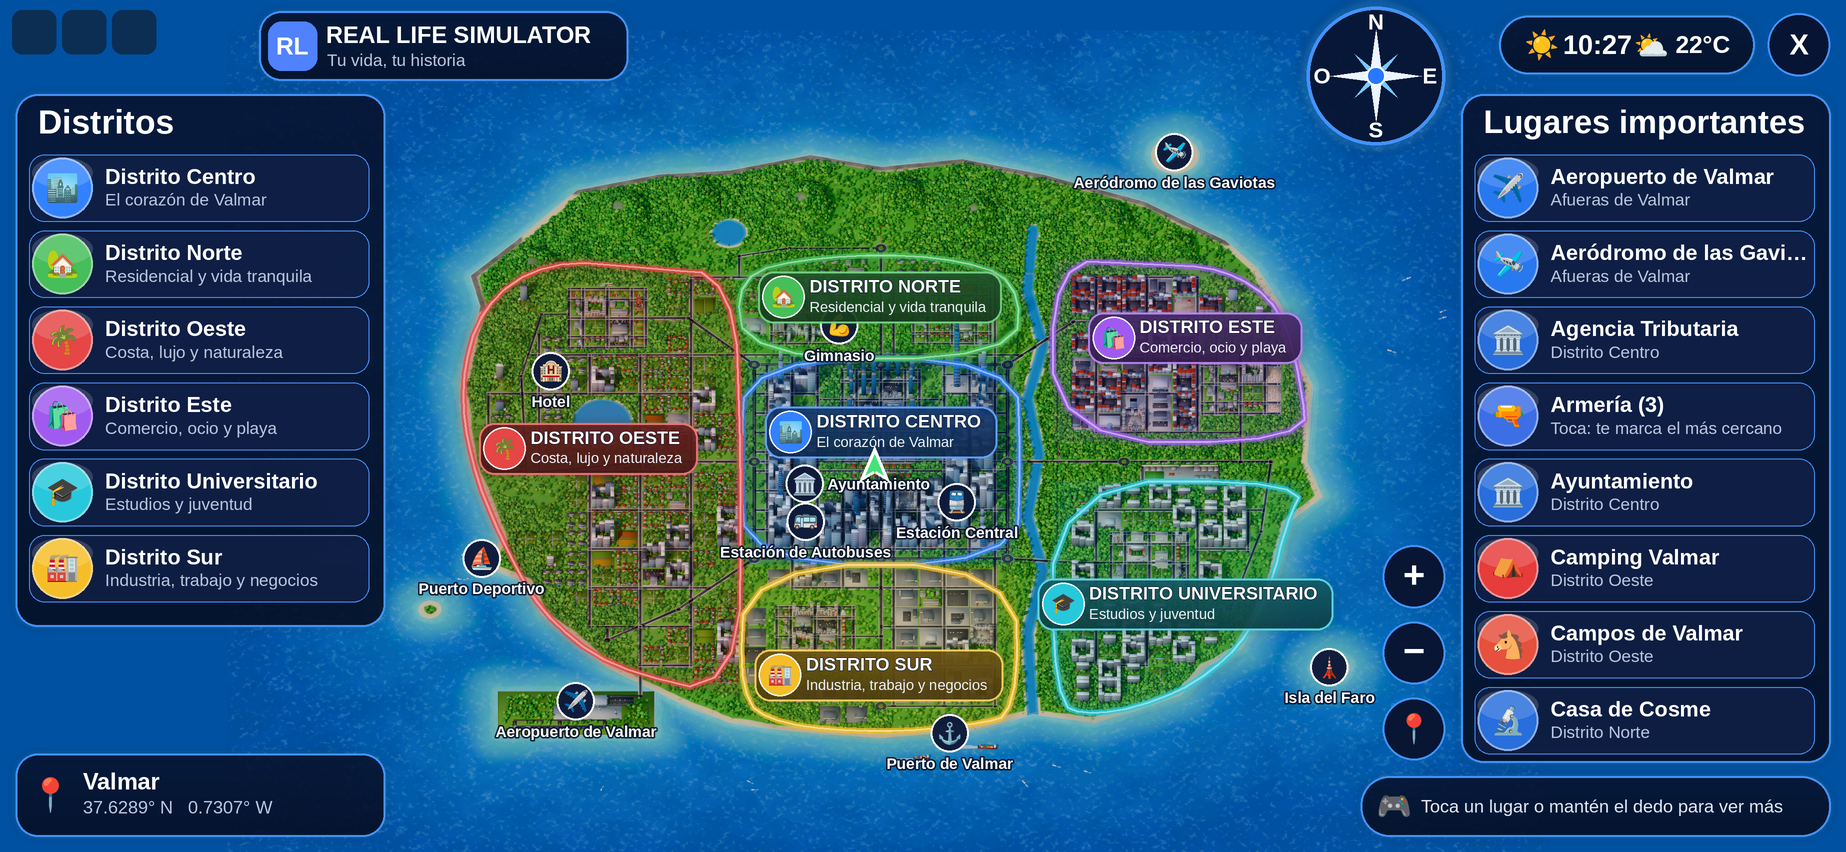
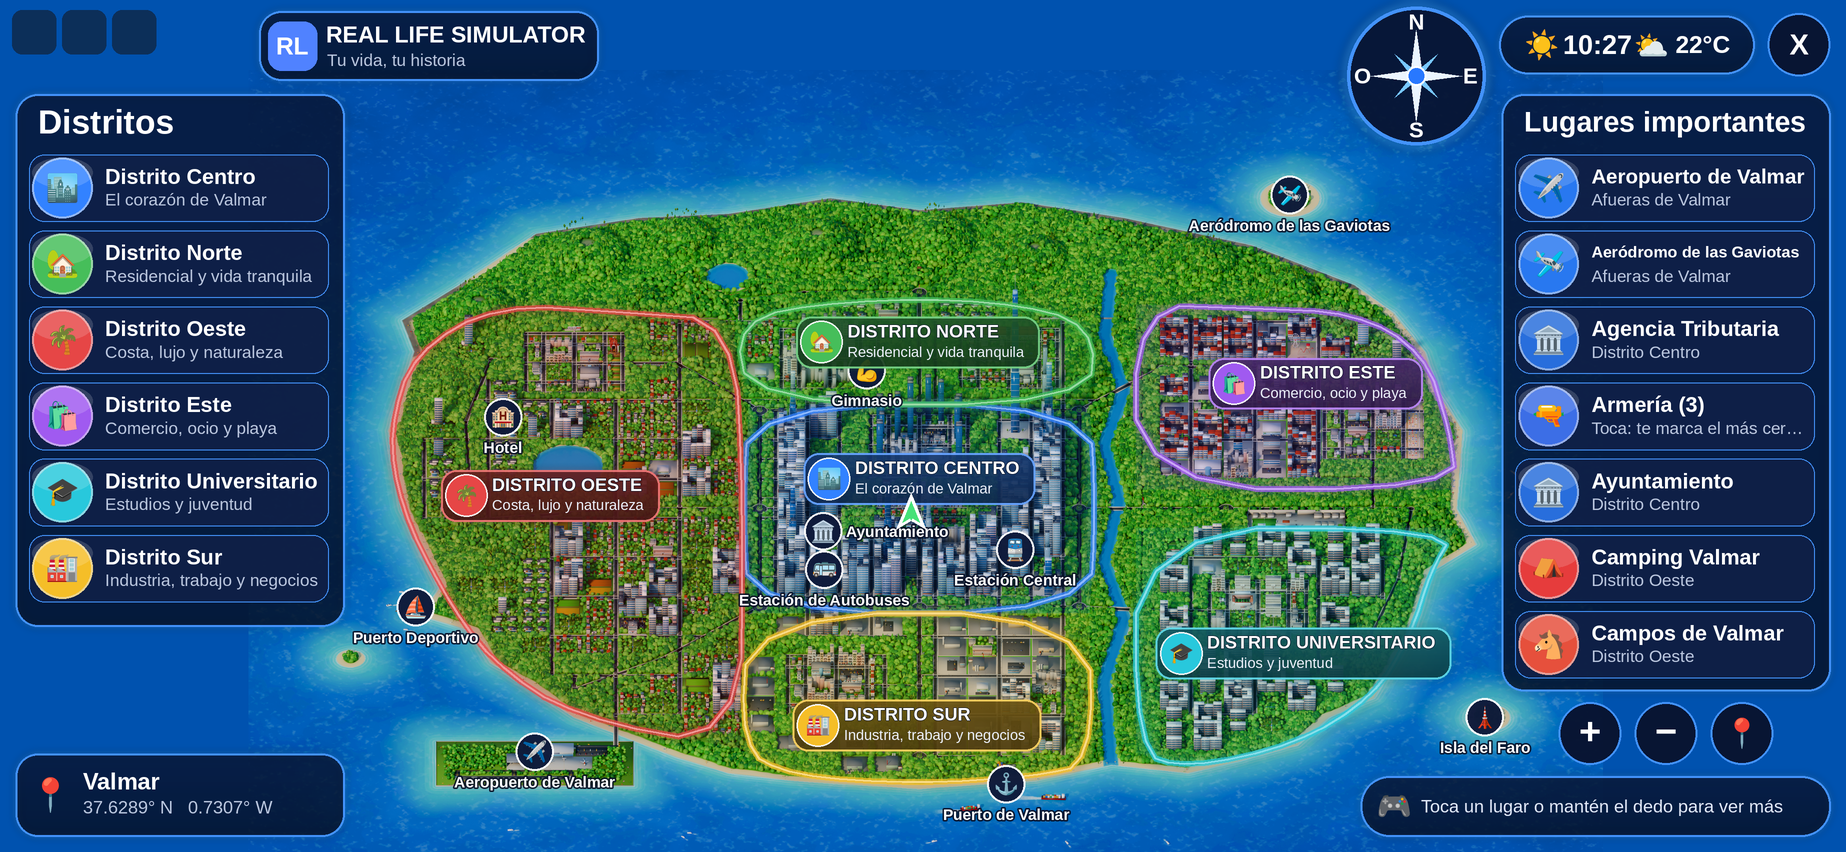
Mapa grande 3D: isla más grande, más frondosa y con más volumen
- Render (scripts/map/blender_render.py): cámara inclinada 52°, encuadre más cerrado
  (menos mar), alturas x2, sol dorado con sombras suaves y cielo frío de relleno, más
  color y contraste; bajíos turquesa más vivos, más espuma y reflejo del sol.
- Mucho más verde: bosque denso, árboles más grandes, avenidas con árboles a los dos
  lados de las calles, jardines con setos y matas de flores (solo en el césped libre,
  nunca en calles ni edificios).
- Pantalla: la isla ocupa más (paneles algo más estrechos y translúcidos, la isla pasa
  un poco por debajo de sus bordes), + / − / ◎ en fila bajo los lugares, títulos que
  encogen para caber; etiquetas recolocadas con la nueva cámara (MapProjection exacta).
- Pruebas y montajes de comparación nuevos en docs/mapa.

Claude-Session: https://claude.ai/code/session_01NLHSc9vUgM3Lfn2jUL556r

diff --git a/roblox/scripts/map/blender_render.py b/roblox/scripts/map/blender_render.py
@@ -37,12 +37,12 @@ import numpy as np
 # ----------------------------------------------------------------------------------------------------
 # Cámara y proyección (la misma fórmula que shared/MapScreen.toArt)
 # ----------------------------------------------------------------------------------------------------
-TILT = 40.0  # grados desde la vertical (0 = desde arriba)
-ORTHO_W = 13000.0  # studs de ancho que ve la cámara
-CX, CS = 50.0, 200.0  # centro de la imagen: X del mundo y coordenada «arriba» de la pantalla
+TILT = 52.0  # grados desde la vertical (0 = desde arriba)
+ORTHO_W = 10600.0  # studs de ancho que ve la cámara (la isla, con poco mar alrededor)
+CX, CS = 50.0, 330.0  # centro de la imagen: X del mundo y coordenada «arriba» de la pantalla
 COLS, ROWS = 4, 3
-Y_EXAG = 1.6  # (las alturas de las piezas, x1,6: más volumen, como un mapa ilustrado; la planta es exacta)
-TILE_H = 852  # (alto de cada trozo con 4096 de ancho)
+Y_EXAG = 2.0  # (las alturas de las piezas, x2: más volumen, como un mapa ilustrado; la planta es exacta)
+TILE_H = 800  # (alto de cada trozo con 4096 de ancho)
 
 
 def project(x, y, z, W, H):
@@ -149,7 +149,7 @@ def terrain(plan, parts_masks):
 
     n1, n2, n3 = noise(H, W, 300, 1), noise(H, W, 70, 2), noise(H, W, 20, 3)
     # Mar: azul profundo lejos, azul medio, bajíos turquesa y espuma en la orilla
-    deep, mid, shallow, reef, foam = rgb(16, 78, 162), rgb(26, 132, 214), rgb(58, 206, 214), rgb(120, 226, 214), rgb(232, 250, 250)
+    deep, mid, shallow, reef, foam = rgb(14, 76, 164), rgb(22, 132, 220), rgb(40, 210, 214), rgb(110, 232, 214), rgb(240, 252, 252)
     sea = lerp(mid, deep, np.clip(dist_out / 1800.0, 0, 1) ** 0.8)
     # (bajíos anchos y turquesa, con manchas, y un borde más claro de arrecife junto a la playa)
     sea = lerp(sea, shallow, np.clip(1 - (dist_out + (n2 - 0.5) * 160) / 420.0, 0, 1) ** 1.1)
@@ -157,7 +157,7 @@ def terrain(plan, parts_masks):
     waves = np.clip(noise(H, W, 9, 11) - 0.62, 0, 1) * 2.2
     sea = lerp(sea, rgb(200, 236, 250), waves * 0.25)
     sea *= (0.94 + 0.12 * n2)[..., None]
-    for ring, width, amount in ((8, 7, 0.9), (34, 6, 0.35), (62, 7, 0.18)):
+    for ring, width, amount in ((8, 8, 1.0), (30, 7, 0.5), (56, 7, 0.28), (90, 8, 0.14)):
         t = np.clip(1 - np.abs(dist_out - ring - (n2 - 0.5) * 12) / width, 0, 1) * (0.5 + 0.5 * n3)
         sea = lerp(sea, foam, t * amount)
     # Hierba con manchas (prados claros, bosque oscuro) y un poco de tierra seca
@@ -401,58 +401,108 @@ def footprint_masks(parts, ter):
     return built > 0, garden > 0
 
 
-def plant_trees(ter, built, garden, density, rng):
+def plant_trees(ter, built, garden, density, rng, roads):
+    """Árboles: bosque denso en el campo y los montes, más claros en los prados, jardines y parques de
+    la ciudad (más pequeños) y avenidas con árboles a los dos lados de las calles. Nunca encima de
+    una calle, una acera o un edificio (máscara `built`). Devuelve X, Z, suelo y tamaño (1 campo,
+    0.65 ciudad, 0.8 avenida)."""
     W, H = ter["size"]
-    px = ter["px"]
     x0, x1, z0, z1 = EXT
-    step = 24.0 / math.sqrt(max(density, 0.05))
+    step = 19.0 / math.sqrt(max(density, 0.05))
     xs = np.arange(x0, x1, step)
     zs = np.arange(z0, z1, step)
     gx, gz = np.meshgrid(xs, zs)
     gx = gx + rng.uniform(-step * 0.45, step * 0.45, gx.shape)
     gz = gz + rng.uniform(-step * 0.45, step * 0.45, gz.shape)
-    ix = np.clip(((gx - x0) / TEX).astype(int), 0, W - 1)
-    iz = np.clip(((gz - z0) / TEX).astype(int), 0, H - 1)
-    land = ter["is_land"][iz, ix]
-    ok = land & (ter["beach"][iz, ix] < 0.2) & (ter["water"][iz, ix] < 0.5) & (ter["rock"][iz, ix] < 0.6) & (ter["cliff"][iz, ix] < 0.3) & ~built[iz, ix]
+
+    def sample(x, z):
+        ix = np.clip(((x - x0) / TEX).astype(int), 0, W - 1)
+        iz = np.clip(((z - z0) / TEX).astype(int), 0, H - 1)
+        ok = ter["is_land"][iz, ix] & (ter["beach"][iz, ix] < 0.2) & (ter["water"][iz, ix] < 0.5) & (ter["rock"][iz, ix] < 0.6) & (ter["cliff"][iz, ix] < 0.3) & ~built[iz, ix]
+        return ix, iz, ok
+
+    ix, iz, ok = sample(gx, gz)
     forest = ter["forest"][iz, ix]
     meadow = ter["meadow"][iz, ix]
-    prob = np.where(garden[iz, ix], 0.4, np.where(forest > 0.45, 0.95, 0.16 + 0.3 * meadow))
-    # (en los montes, bosque)
-    prob = np.where(ter["height"][iz, ix] > 8, np.maximum(prob, 0.75), prob)
+    in_garden = garden[iz, ix]
+    prob = np.where(in_garden, 0.55, np.where(forest > 0.42, 0.97, 0.3 + 0.35 * meadow))
+    prob = np.where(ter["height"][iz, ix] > 8, np.maximum(prob, 0.85), prob)
     keep = ok & (rng.random(gx.shape) < prob)
-    X, Z = gx[keep], gz[keep]
-    ground = ter["height"][iz[keep], ix[keep]]
-    return X, Z, ground
+    X, Z = list(gx[keep]), list(gz[keep])
+    size = list(np.where(in_garden[keep], 0.65, 1.0))
+    # Avenidas: a los dos lados de cada calle, pasada la acera, cada ~34 studs
+    for (ax, az, bx, bz, half) in roads:
+        length = math.hypot(bx - ax, bz - az)
+        if length < 40:
+            continue
+        ux, uz = (bx - ax) / length, (bz - az) / length
+        nx, nz = -uz, ux
+        n = int(length / 34)
+        t = (np.arange(n) + 0.5) / n
+        for side in (-1, 1):
+            off = half + 15
+            px_ = ax + ux * length * t + nx * off * side
+            pz_ = az + uz * length * t + nz * off * side
+            _, _, okr = sample(px_, pz_)
+            X += list(px_[okr])
+            Z += list(pz_[okr])
+            size += [0.8] * int(okr.sum())
+    X, Z, size = np.array(X), np.array(Z), np.array(size)
+    ix = np.clip(((X - x0) / TEX).astype(int), 0, W - 1)
+    iz = np.clip(((Z - z0) / TEX).astype(int), 0, H - 1)
+    return X, Z, ter["height"][iz, ix], size
 
 
-def add_trees(builder, X, Z, ground, rng, sphere):
+def add_trees(builder, X, Z, ground, size, rng, sphere):
     sv, sf = sphere
     n = len(X)
-    greens = np.array([(46, 132, 40), (64, 156, 48), (88, 172, 56), (40, 112, 44), (110, 176, 60)], np.float32)
+    greens = np.array([(46, 132, 40), (64, 156, 48), (88, 172, 56), (40, 112, 44), (110, 176, 60), (128, 186, 66)], np.float32)
     kinds = rng.random(n)
     for i in range(n):
         g = greens[rng.integers(0, len(greens))] * rng.uniform(0.85, 1.12)
         col = srgb_to_linear(np.clip(g, 0, 255))
-        trunk = srgb_to_linear((110, 80, 50))
         base = np.array([X[i], ground[i], Z[i]], np.float32)
-        if kinds[i] < 0.22:
+        k_size = size[i]
+        if kinds[i] < 0.2 and k_size >= 1:
             # Pino: cono
-            r, h = rng.uniform(10, 15), rng.uniform(40, 60)
+            r, h = rng.uniform(12, 17), rng.uniform(55, 75)
             k = 7
             ang = np.linspace(0, 2 * np.pi, k, endpoint=False) + rng.uniform(0, 1)
-            ring = np.stack([np.cos(ang) * r, np.full(k, h * 0.25), np.sin(ang) * r], 1)
+            ring = np.stack([np.cos(ang) * r, np.full(k, h * 0.22), np.sin(ang) * r], 1)
             verts = np.vstack([ring, [[0, h, 0]]]) + base
             faces = [(j, (j + 1) % k, k) for j in range(k)]
             builder.add(verts, [(f[2], f[1], f[0]) for f in faces], col * 0.85)
         else:
-            # Copa redonda (un poco aplastada) sobre un tronco corto
-            r = rng.uniform(13, 21)  # (árboles algo más grandes que en el juego: se leen desde lejos, como en el dibujo)
-            c = base + np.array([0, r * 0.9 + 4, 0], np.float32)
+            # Copa redonda (un poco aplastada); las grandes, con una segunda copa al lado
+            r = rng.uniform(15, 25) * k_size  # (árboles más grandes que en el juego: se leen desde lejos, como en el dibujo)
+            c = base + np.array([0, r * 0.9 + 5, 0], np.float32)
             builder.add(sv * np.array([r, r * 0.85, r], np.float32) + c, sf, col)
-            if r > 17:
+            if r > 18:
                 c2 = c + np.array([rng.uniform(-r, r) * 0.5, -r * 0.2, rng.uniform(-r, r) * 0.5], np.float32)
-                builder.add(sv * (r * 0.7) + c2, sf, col * 1.08)
+                builder.add(sv * (r * 0.7) + c2, sf, col * 1.1)
+
+
+def garden_dressing(builder, ter, built, garden, rng, sphere):
+    """Setos y flores en el césped de las manzanas (jardines y parques): solo en el hueco libre."""
+    sv, sf = sphere
+    W, H = ter["size"]
+    x0, x1, z0, z1 = EXT
+    ys, xs = np.nonzero(garden[::3, ::3] & ~built[::3, ::3])
+    pick = rng.random(len(xs)) < 0.05
+    flowers = [(236, 70, 90), (250, 200, 60), (240, 120, 200), (255, 255, 255), (250, 140, 50)]
+    for xi, yi in zip(xs[pick], ys[pick]):
+        x, z = x0 + xi * 3 * TEX, z0 + yi * 3 * TEX
+        if rng.random() < 0.55:
+            # Mata de flores: tres bolitas de color
+            col = srgb_to_linear(flowers[rng.integers(0, len(flowers))])
+            for _ in range(3):
+                c = np.array([x + rng.uniform(-5, 5), 1.5, z + rng.uniform(-5, 5)], np.float32)
+                builder.add(sv * rng.uniform(2.2, 3.5) + c, sf, col)
+        else:
+            # Arbusto o seto bajo
+            col = srgb_to_linear(np.array((52, 128, 46)) * rng.uniform(0.85, 1.15))
+            c = np.array([x, 3, z], np.float32)
+            builder.add(sv * np.array([rng.uniform(5, 9), 3.5, rng.uniform(3, 5)], np.float32) + c, sf, col)
 
 
 def boat(builder, x, z, length, heading, rng, cargo=False):
@@ -681,7 +731,22 @@ def main():
     print(f"  {len(parts)} piezas")
     ter = terrain(plan, None)
     built, garden = footprint_masks(parts, ter)
-    X, Z, ground = plant_trees(ter, built, garden, args.trees, rng)
+    # Calles (las calzadas de asfalto): eje largo y medio ancho, para las avenidas con árboles
+    roads = []
+    for p in parts:
+        if p["mat"] == "Asphalt" and p["name"] in ("Road", "Calzada", "Lane", "Avenue", "Carretera"):
+            cs = p["corners"]
+            xz = cs[:, [0, 2]]
+            d = xz[:, None, :] - xz[None, :, :]
+            i, j = np.unravel_index(np.argmax((d ** 2).sum(-1)), (8, 8))
+            ext = np.ptp(xz @ np.array([[0, 1], [-1, 0]]) @ ((xz[j] - xz[i]) / (np.linalg.norm(xz[j] - xz[i]) + 1e-9)))
+            mid = xz.mean(0)
+            axis = (xz[j] - xz[i]) / (np.linalg.norm(xz[j] - xz[i]) + 1e-9)
+            L = np.ptp(xz @ axis)
+            a_, b_ = mid - axis * L / 2, mid + axis * L / 2
+            roads.append((a_[0], a_[1], b_[0], b_[1], ext / 2))
+    print(f"  {len(roads)} tramos de calle")
+    X, Z, ground, size = plant_trees(ter, built, garden, args.trees, rng, roads)
     print(f"  {len(X)} árboles")
     # Barcos: en el puerto deportivo (oeste) y frente al puerto de mercancías (sur)
     color = ter["color"].copy()
@@ -715,7 +780,8 @@ def main():
         boat(b_parts, bt[0], bt[1], bt[2], bt[3], rng, bt[4])
     make_mesh(bpy, "Ciudad", b_parts, parts_material(bpy), Y_EXAG)
     b_trees = MeshBuilder()
-    add_trees(b_trees, X, Z, ground, rng, unit_sphere(1))
+    add_trees(b_trees, X, Z, ground, size, rng, unit_sphere(1))
+    garden_dressing(b_trees, ter, built, garden, rng, unit_sphere(1))
     make_mesh(bpy, "Arboles", b_trees, parts_material(bpy))
     ground_mesh(bpy, ter, ground_material(bpy, color_path, water_path))
     print(f"  {time.time() - t0:.0f} s")
@@ -736,16 +802,16 @@ def main():
     co.rotation_euler = (t, 0, 0)
     # Sol cálido desde el suroeste, alto, con sombras suaves; cielo azul claro de ambiente
     sun = bpy.data.lights.new("Sol", "SUN")
-    sun.energy = 4.2
-    sun.color = (1.0, 0.9, 0.76)
-    sun.angle = math.radians(4)
+    sun.energy = 5.0
+    sun.color = (1.0, 0.84, 0.62)  # (luz dorada)
+    sun.angle = math.radians(6)  # (sombras suaves)
     so = bpy.data.objects.new("Sol", sun)
     scene.collection.objects.link(so)
-    so.rotation_euler = (math.radians(50), 0, math.radians(-35))
+    so.rotation_euler = (math.radians(55), 0, math.radians(-30))
     world = bpy.data.worlds.new("Cielo")
     world.use_nodes = True
-    world.node_tree.nodes["Background"].inputs[0].default_value = (0.55, 0.72, 1.0, 1)
-    world.node_tree.nodes["Background"].inputs[1].default_value = 0.9
+    world.node_tree.nodes["Background"].inputs[0].default_value = (0.45, 0.66, 1.0, 1)  # (relleno frío del cielo)
+    world.node_tree.nodes["Background"].inputs[1].default_value = 1.0
     scene.world = world
     # Render
     scene.render.engine = "CYCLES"
@@ -777,9 +843,11 @@ def main():
     bloom = cv2.GaussianBlur(bright, (0, 0), W / 500) * 0.35
     img = np.clip(img + bloom, 0, 1)
     hsv = cv2.cvtColor((img * 255).astype(np.uint8), cv2.COLOR_BGR2HSV).astype(np.float32)
-    hsv[..., 1] = np.clip(hsv[..., 1] * 1.18, 0, 255)
-    hsv[..., 2] = np.clip(255 * (hsv[..., 2] / 255) ** 0.9, 0, 255)  # (un poco más luminoso)
-    out = cv2.cvtColor(hsv.astype(np.uint8), cv2.COLOR_HSV2BGR)
+    hsv[..., 1] = np.clip(hsv[..., 1] * 1.25, 0, 255)
+    hsv[..., 2] = np.clip(255 * (hsv[..., 2] / 255) ** 0.88, 0, 255)  # (un poco más luminoso)
+    out = cv2.cvtColor(hsv.astype(np.uint8), cv2.COLOR_HSV2BGR).astype(np.float32) / 255
+    out = np.clip(out + (out - 0.5) * 0.12 * (1 - np.abs(out - 0.5) * 2), 0, 1)  # (contraste en curva S suave)
+    out = (out * 255).astype(np.uint8)
     os.makedirs(args.out, exist_ok=True)
     cv2.imwrite(os.path.join(args.out, "preview.jpg"), cv2.resize(out, (W // 2, H // 2), interpolation=cv2.INTER_AREA), [cv2.IMWRITE_JPEG_QUALITY, 90])
     if args.preview:
@@ -808,7 +876,7 @@ def main():
         for z in (A["Z0"], A["Z1"]):
             pts.append(project(x, 0, z, W, H))
     us, vs = [p[0] for p in pts], [p[1] for p in pts]
-    box = (math.floor(min(us)) - 30, math.floor(min(vs)) - 30, math.ceil(max(us)) + 30, math.ceil(max(vs)) + 30)
+    box = (math.floor(min(us)) - 10, math.floor(min(vs)) - 10, math.ceil(max(us)) + 10, math.ceil(max(vs)) + 10)
     meta = {"Width": W, "Height": H, "Cols": COLS, "Rows": ROWS, "TileWidth": tw, "TileHeight": th, "Tilt": TILT, "OrthoWidth": ORTHO_W, "CX": CX, "CS": CS, "Sea": sea, "IslandBox": box}
     json.dump(meta, open(os.path.join(args.out, "meta.json"), "w"), indent=1)
     with open(args.projection, "w", encoding="utf-8") as fh:

diff --git a/roblox/scripts/map/mockup.py b/roblox/scripts/map/mockup.py
@@ -133,7 +133,7 @@ class Canvas:
 
 
 def navy(c, r, radius=18):
-    c.rrect(r, radius, PANEL, alpha=225, edge=EDGE, glow=GLOW)
+    c.rrect(r, radius, PANEL, alpha=204, edge=EDGE, glow=GLOW)  # (MapScreen: PanelTransparency 0.2)
 
 
 def list_row(c, x, y, w, h, icon, color, title, sub, ts):
@@ -146,7 +146,10 @@ def list_row(c, x, y, w, h, icon, color, title, sub, ts):
     ImageDraw.Draw(lay).ellipse((c.u(cx - d / 2), c.u(cy - d / 2), c.u(cx + d / 2), c.u(cy)), fill=(255, 255, 255, 40))
     c.put(lay)
     c.glyph(icon, cx, cy, d * 0.5)
-    c.text(x + d + 14, y + h / 2 - 21, title, ts["Title"], max_w=w - d - 20)
+    size = ts["Title"]
+    while size > 12 and font(c.u(size)).getlength(title) / c.k > w - d - 20:
+        size -= 0.5  # (TextScaled con tope, como en el juego)
+    c.text(x + d + 14, y + h / 2 - 21 + (ts["Title"] - size) / 2, title, size, max_w=w - d - 20)
     c.text(x + d + 14, y + h / 2 + 2, sub, ts["Sub"], color=SUB, bold=False, max_w=w - d - 20)
 
 
@@ -314,20 +317,26 @@ def draw_screen(data, screen, map_img, drawer=None):
 
     # + − ◎
     r = R["Zoom"]
+    horizontal = r["W"] > r["H"]
+    gap = ((r["W"] if horizontal else r["H"]) - 168) / 2
     for i, sym in enumerate(("+", "−", "📍")):
-        by = r["Y"] + r["H"] - (3 - i) * 56 - (2 - i) * (r["H"] - 168) / 2
-        c.circle(r["X"] + 28, by + 28, 28, PANEL, outline=EDGE, width=2, alpha=245)
+        cx = r["X"] + 28 + (i * (56 + gap) if horizontal else 0)
+        cy = r["Y"] + 28 + (0 if horizontal else i * (56 + gap))
+        c.circle(cx, cy, 28, PANEL, outline=EDGE, width=2, alpha=245)
         if sym == "📍":
-            c.glyph(sym, r["X"] + 28, by + 28, 28)
+            c.glyph(sym, cx, cy, 28)
         else:
-            c.text(r["X"] + 28, by + 26, sym, 34, anchor="mm")
+            c.text(cx, cy - 2, sym, 34, anchor="mm")
 
     # Dónde estás, la pista y las pestañas
     r = R["Location"]
     navy(c, r, 20)
     c.glyph("📍", r["X"] + 31, r["Y"] + r["H"] / 2, 32)
     c.text(r["X"] + 60, r["Y"] + r["H"] / 2 - 24, data["Text"]["Region"], 21)
-    c.text(r["X"] + 60, r["Y"] + r["H"] / 2 + 2, data["Text"]["Coords"], 16, color=SUB, bold=False)
+    size = 16
+    while size > 11 and font(c.u(size), False).getlength(data["Text"]["Coords"]) / c.k > r["W"] - 70:
+        size -= 0.5
+    c.text(r["X"] + 60, r["Y"] + r["H"] / 2 + 2, data["Text"]["Coords"], size, color=SUB, bold=False)
     if "Hint" in R:
         r = R["Hint"]
         navy(c, r, 26)
@@ -401,7 +410,7 @@ def main():
             f = ImageFont.truetype(FONT_BOLD, max(14, round(26 * w / 1846)))
             d.text((10, 4), "Referencia", font=f, fill=(255, 255, 255))
             sheet.paste(ref, (0, pad))
-            d.text((10, pad + shot.height + 4), f"Juego ({w}x{h}: montaje con shared/MapScreen y el arte de textures/mapa)", font=f, fill=(255, 255, 255))
+            d.text((10, pad + shot.height + 4), f"Juego ({w}x{h}: la ciudad de verdad en 3D, con shared/MapScreen)", font=f, fill=(255, 255, 255))
             sheet.paste(shot, (0, shot.height + pad * 2))
             path = os.path.join(args.out, f"comparacion-{w}x{h}.png")
             sheet.save(path, optimize=True)
